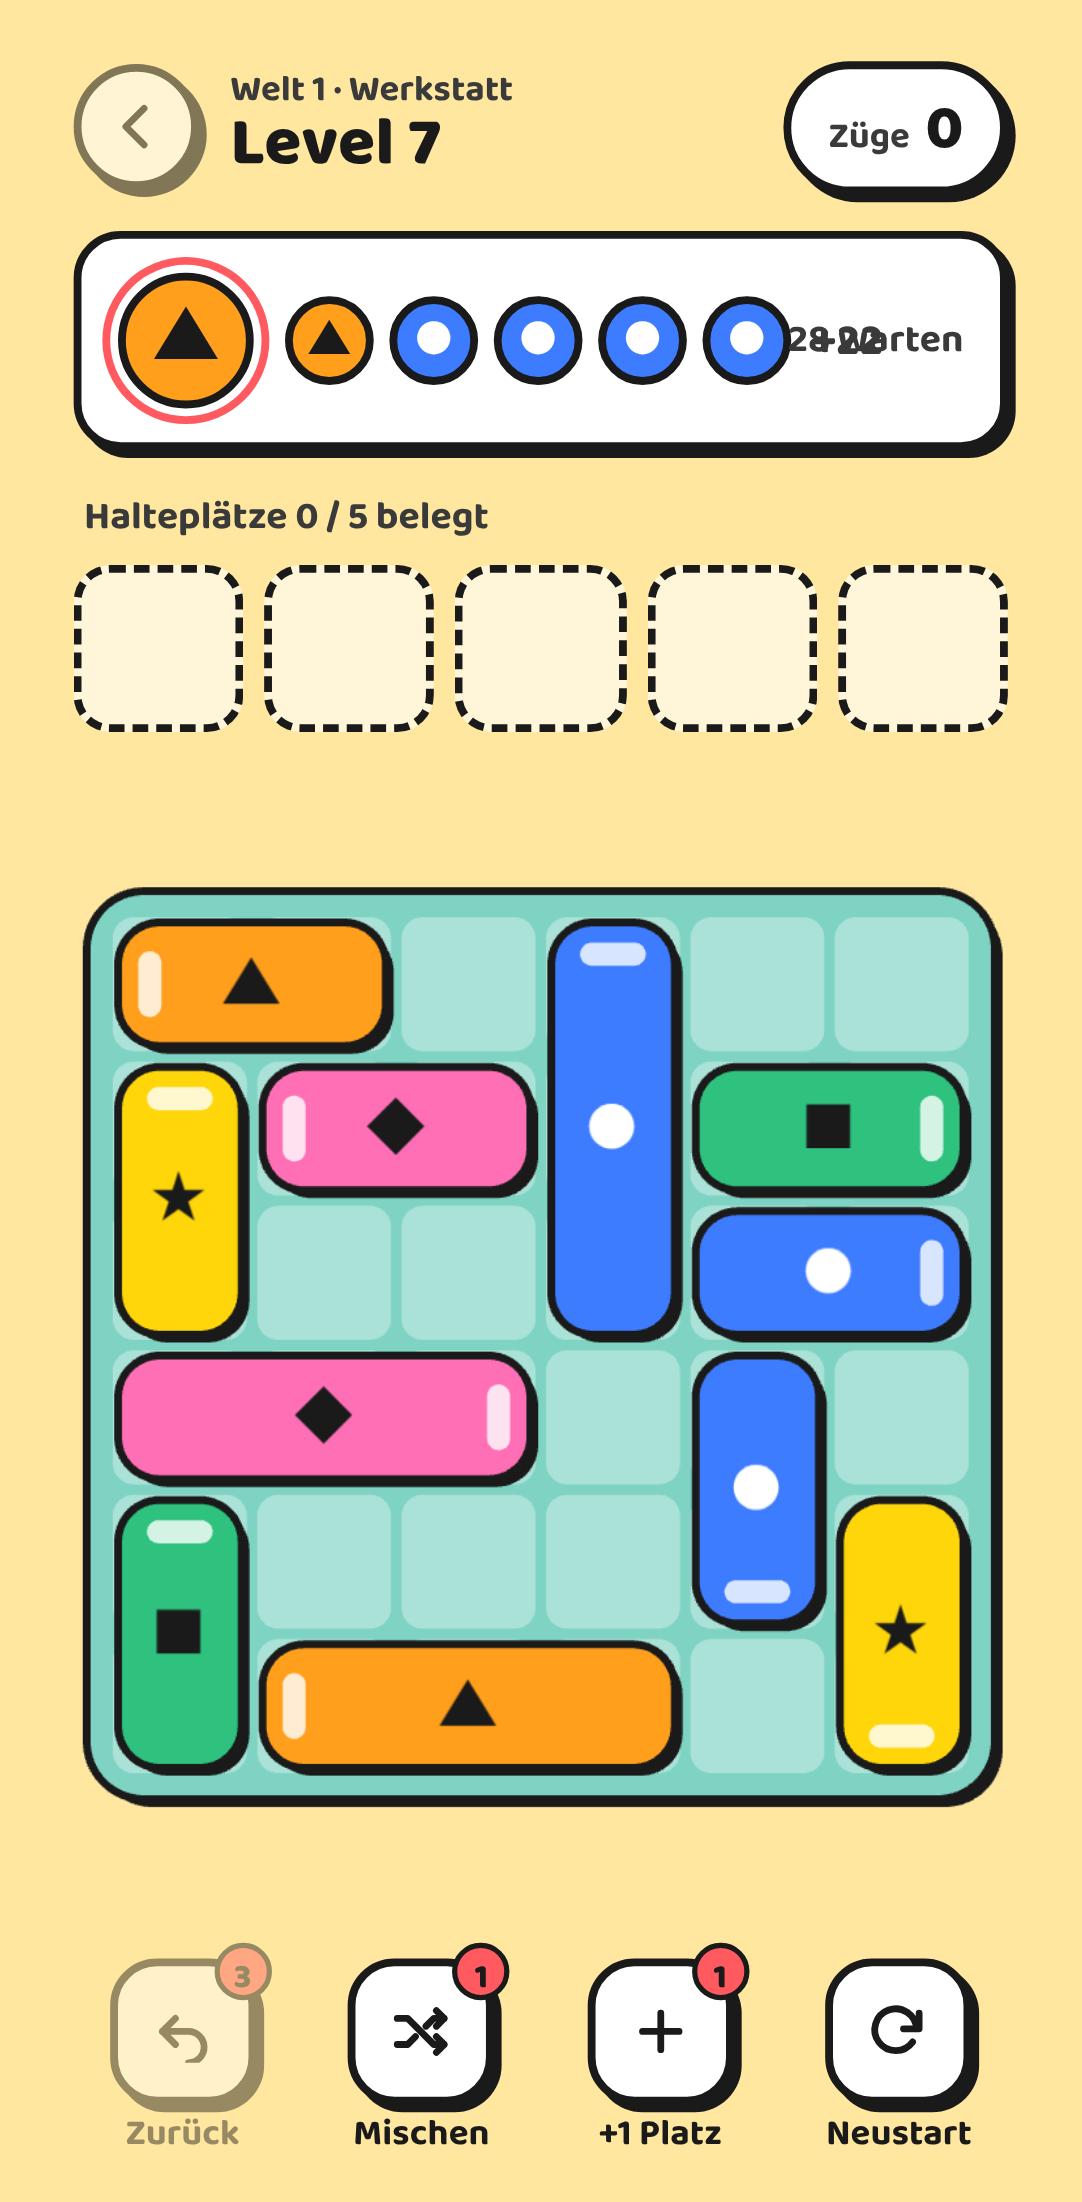
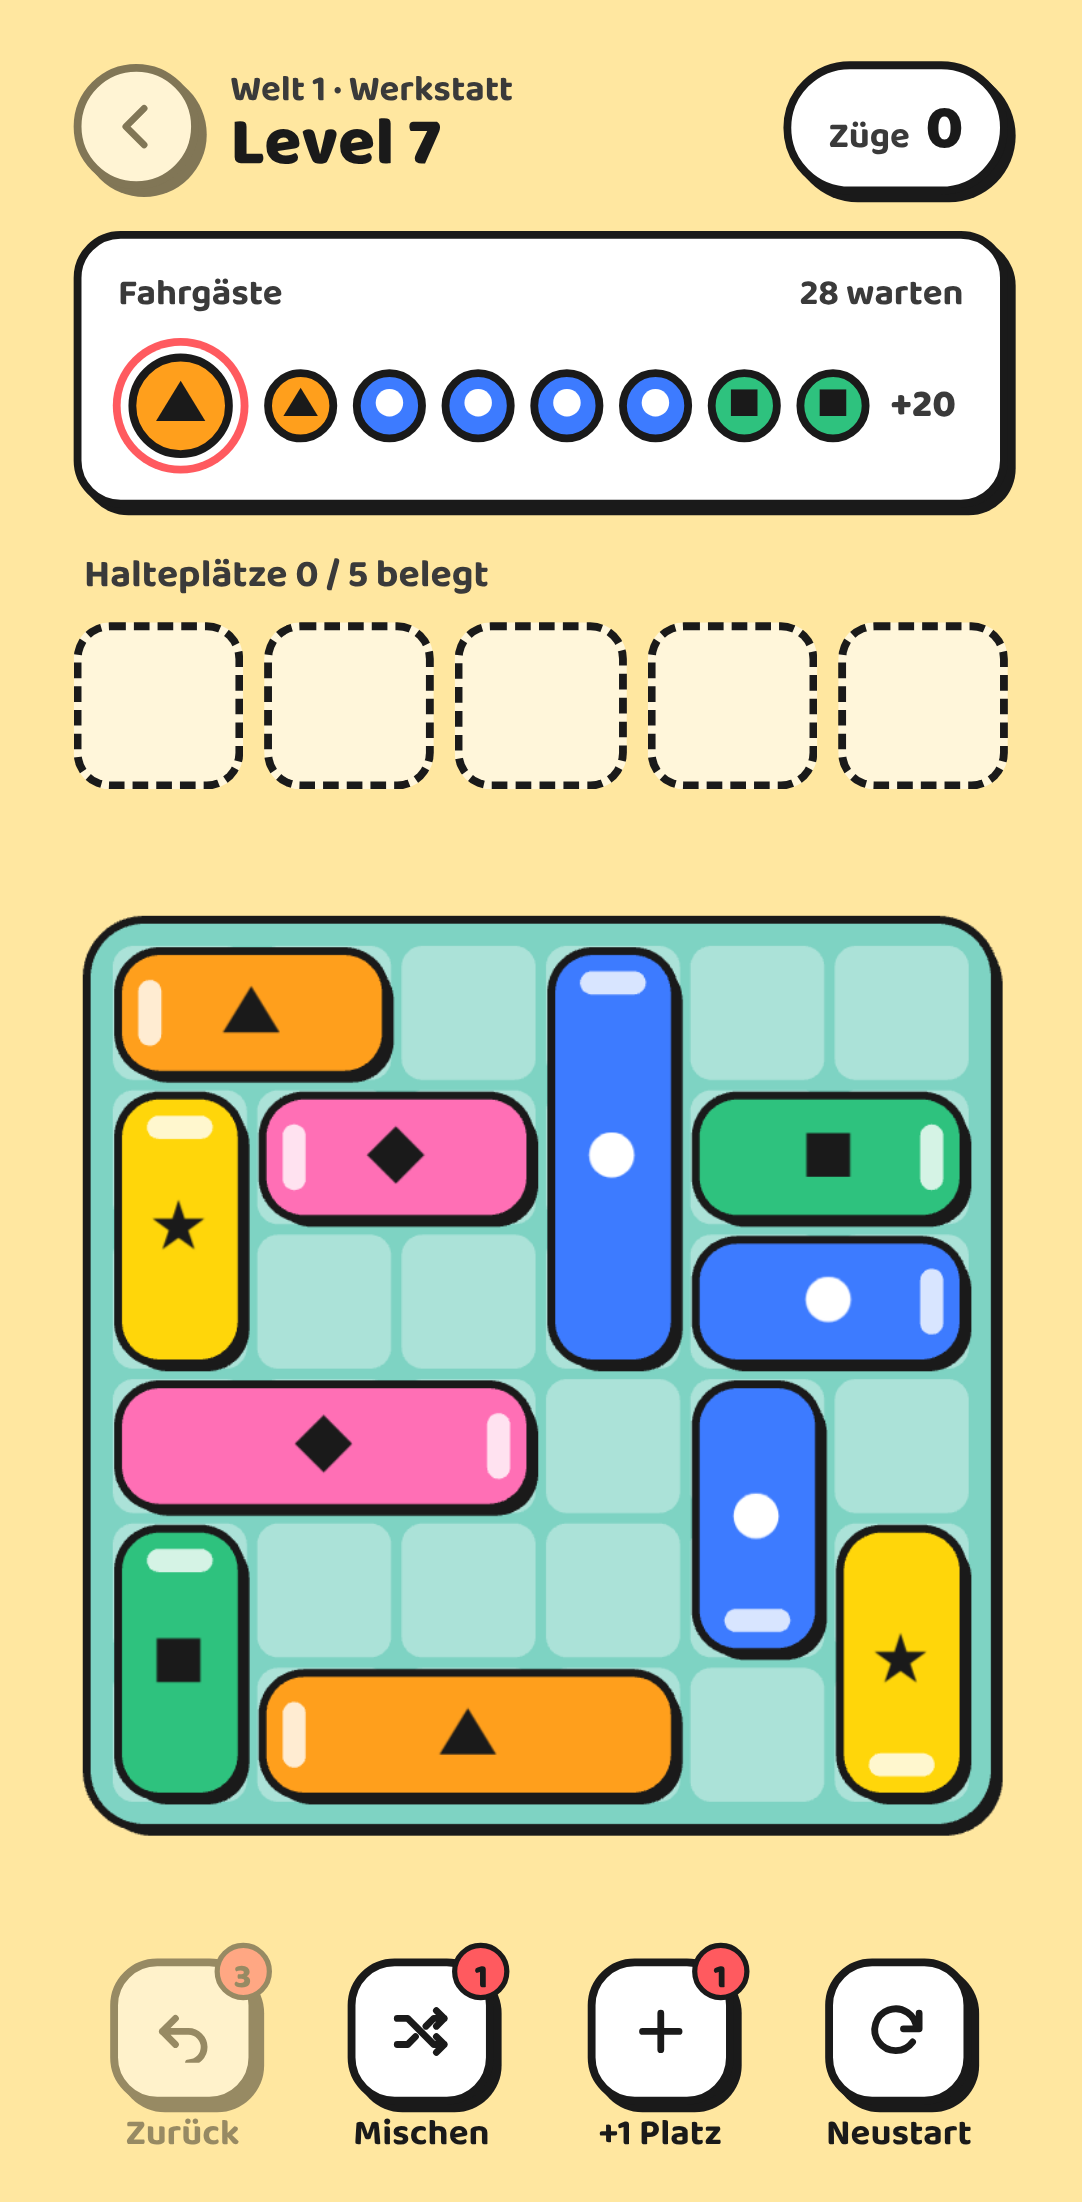
fix(ui): passenger panel header, show 8 passengers without overlap
Claude-Session: https://claude.ai/code/session_01QTUGJpEhW55ccewtyVoHq7

Changed region(s): [[0.061, 0.4015, 0.9455, 0.8338], [0.061, 0.0926, 0.9455, 0.3706], [0.549, 0.4941, 0.61, 0.5559]]

diff --git a/src/ui/styles/hud.css b/src/ui/styles/hud.css
@@ -89,11 +89,17 @@
 /* Fahrgaeste */
 .pax-panel {
   display: flex;
-  align-items: center;
-  justify-content: space-between;
+  flex-direction: column;
   gap: 8px;
-  height: 84px;
-  padding: 0 14px;
+  padding: 10px 14px 12px;
+}
+
+.pax-head {
+  display: flex;
+  justify-content: space-between;
+  font-size: 14px;
+  font-weight: 700;
+  color: var(--t-sub);
 }
 
 .pax-row {
@@ -101,41 +107,40 @@
   align-items: center;
   gap: 6px;
   min-width: 0;
+  height: 48px;
 }
 
 .pax {
   flex: none;
   display: grid;
   place-items: center;
-  width: 34px;
-  height: 34px;
-  font-size: 17px;
+  width: 28px;
+  height: 28px;
+  font-size: 14px;
   font-weight: 800;
   border: var(--t-outline-w) solid var(--t-outline);
   border-radius: 50%;
 }
 
 .pax-first {
-  width: 52px;
-  height: 52px;
-  font-size: 26px;
+  width: 40px;
+  height: 40px;
+  font-size: 20px;
   box-shadow:
     0 0 0 3px var(--t-panel),
     0 0 0 6px var(--t-accent);
-  margin-right: 6px;
+  margin: 0 6px 0 4px;
 }
 
 .pax-more {
-  font-size: 17px;
+  font-size: 15px;
   font-weight: 800;
   color: var(--t-sub);
   padding-left: 2px;
+  white-space: nowrap;
 }
 
 .pax-count {
-  flex: none;
-  font-size: 15px;
-  color: var(--t-sub);
   white-space: nowrap;
 }
 

diff --git a/src/ui/components/passengers.ts b/src/ui/components/passengers.ts
@@ -4,7 +4,7 @@ import { h } from '../dom';
 import { colorName, de } from '../strings';
 
 /** Darstellungsgrenze der Fahrgast-Kreise (Layoutbreite), unabhaengig von passengers.visible. */
-const MAX_CHIPS = 6;
+const MAX_CHIPS = 8;
 
 export interface PassengerView {
   update(state: GameState, visible: number): void;
@@ -12,12 +12,13 @@ export interface PassengerView {
 
 export function createPassengers(parent: HTMLElement): PassengerView {
   const row = h('div', { class: 'pax-row' });
-  const count = h('div', { class: 'pax-count' });
+  const count = h('span', { class: 'pax-count' });
+  const head = h('div', { class: 'pax-head' }, h('span', {}, de.passengers), count);
   const panel = h(
     'section',
     { class: 'panel pax-panel', 'aria-label': de.nextPassengers },
+    head,
     row,
-    count,
   );
   parent.append(panel);
 

diff --git a/src/ui/strings.ts b/src/ui/strings.ts
@@ -9,6 +9,7 @@ export const de = {
   movesAria: (n: number): string => `${n} Züge`,
   waiting: (n: number): string => `${n} warten`,
   nextPassengers: 'Nächste Fahrgäste',
+  passengers: 'Fahrgäste',
   slotsTitle: (used: number, total: number): string => `Halteplätze ${used} / ${total} belegt`,
   slotEmpty: 'frei',
   slotLocked: 'gesperrt',
